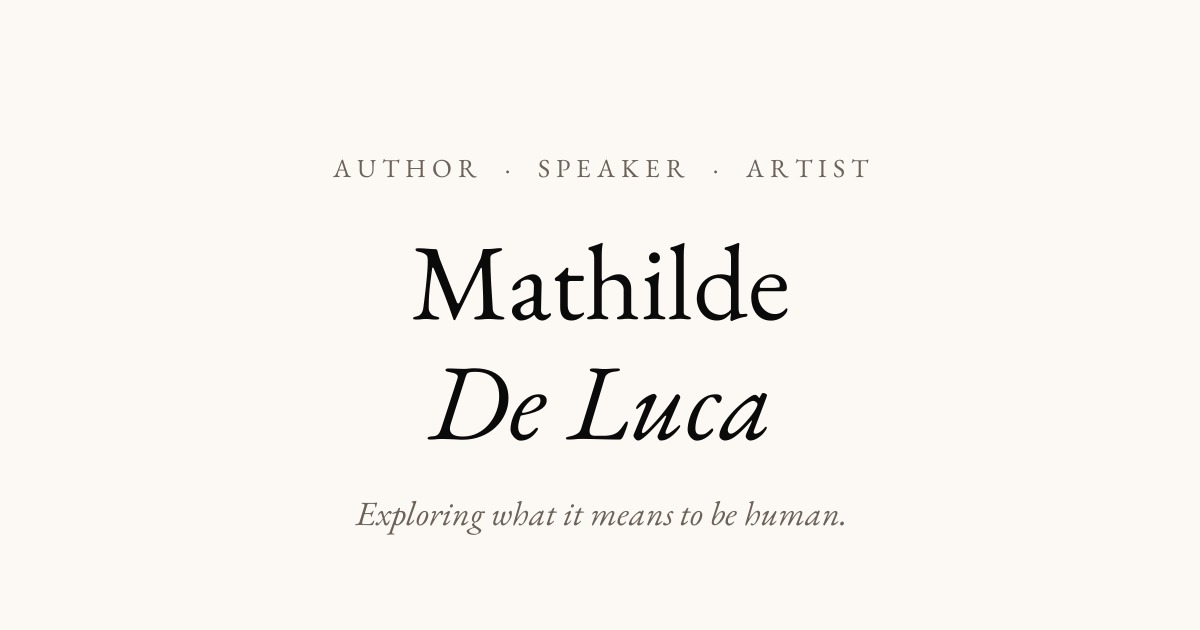
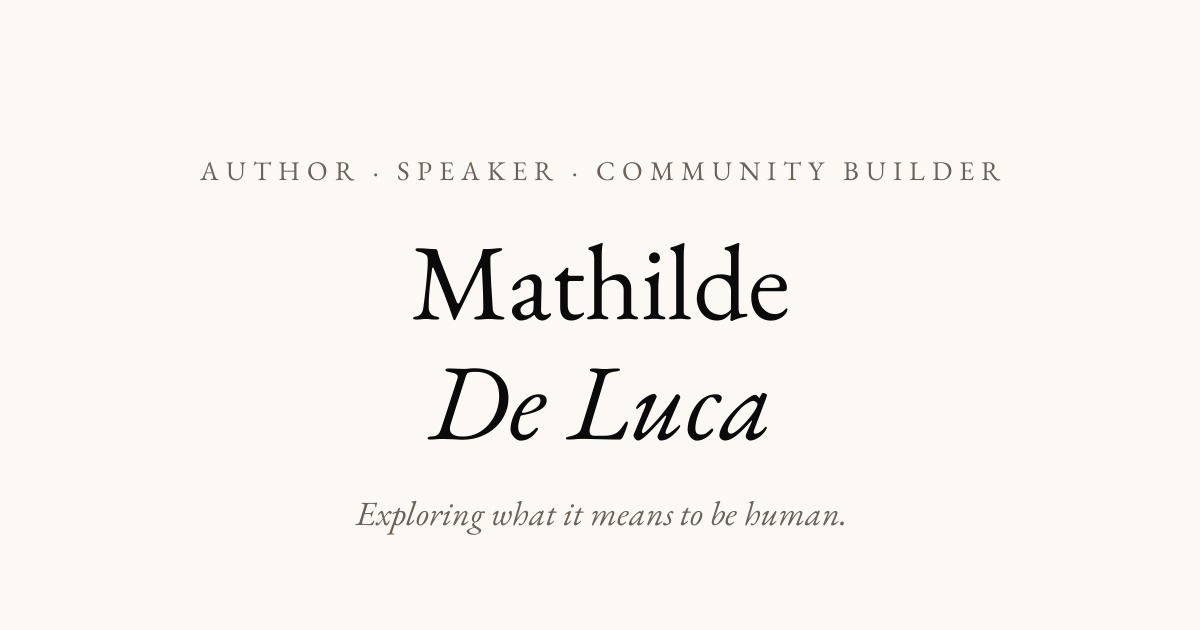
SEO : canonical accueil, twitter:image et robots sur toutes les pages, descriptions raccourcies, image de partage accueil avec Community Builder

Changed region(s): [[0.185, 0.2413, 0.5858, 0.3016], [0.6167, 0.2413, 0.7708, 0.3016], [0.7708, 0.2413, 0.8325, 0.3016]]

diff --git a/index.html b/index.html
@@ -4,13 +4,14 @@
 <meta charset="utf-8">
 <meta name="viewport" content="width=device-width, initial-scale=1">
 <title>Mathilde De Luca — Author, Speaker & Community Builder</title>
-<meta name="description" content="Official site of Mathilde De Luca: author of ‘self as a universe’, host of the Inner Exploration podcast, and community builder in Amsterdam, founder of Maison Amour Collective.">
+<meta name="description" content="Official site of Mathilde De Luca: author of ‘self as a universe’, podcast host and community builder in Amsterdam, founder of Maison Amour Collective.">
 <meta property="og:title" content="Mathilde De Luca — Author, Speaker & Community Builder">
-<meta property="og:description" content="Official site of Mathilde De Luca: author of ‘self as a universe’, host of the Inner Exploration podcast, and community builder in Amsterdam, founder of Maison Amour Collective.">
+<meta property="og:description" content="Official site of Mathilde De Luca: author of ‘self as a universe’, podcast host and community builder in Amsterdam, founder of Maison Amour Collective.">
 <meta property="og:type" content="website">
 <meta property="og:site_name" content="Mathilde De Luca">
 <meta property="og:locale" content="en_US">
 <meta name="twitter:card" content="summary_large_image">
+<meta name="twitter:image" content="https://mathildedeluca.com/images/og-image-mathilde-de-luca.jpg">
 <meta name="author" content="Mathilde De Luca">
 <meta name="copyright" content="© 2026 Mathilde De Luca">
 <meta name="robots" content="index, follow, max-image-preview:large">
@@ -19,7 +20,7 @@
 <link rel="icon" href="/favicon.ico" sizes="32x32">
 <link rel="icon" type="image/png" sizes="192x192" href="/favicon-192x192.png">
 <link rel="apple-touch-icon" href="/apple-touch-icon.png">
-<link rel="canonical" href="https://mathildedeluca.com/index.html">
+<link rel="canonical" href="https://mathildedeluca.com/">
 <meta property="og:url" content="https://mathildedeluca.com/">
 <meta property="og:image" content="https://mathildedeluca.com/images/og-image-mathilde-de-luca.jpg">
 <meta property="og:image:width" content="1200">

diff --git a/maisonamour.html b/maisonamour.html
@@ -4,9 +4,9 @@
 <meta charset="utf-8">
 <meta name="viewport" content="width=device-width, initial-scale=1">
 <title>Maison Amour Collective — Mathilde De Luca</title>
-<meta name="description" content="Maison Amour is a social &amp; artistic collective where presence, authenticity and connection become the new normal. Afterworks, dinners and workshops, with a stage for rising artists and DJs. Currently hosted in Amsterdam.">
+<meta name="description" content="Maison Amour is a social &amp; artistic collective: afterworks, dinners and workshops, with a stage for rising artists and DJs. Currently hosted in Amsterdam.">
 <meta property="og:title" content="Maison Amour Collective — Mathilde De Luca">
-<meta property="og:description" content="Maison Amour is a social &amp; artistic collective where presence, authenticity and connection become the new normal. Afterworks, dinners and workshops, with a stage for rising artists and DJs. Currently hosted in Amsterdam.">
+<meta property="og:description" content="Maison Amour is a social &amp; artistic collective: afterworks, dinners and workshops, with a stage for rising artists and DJs. Currently hosted in Amsterdam.">
 <meta property="og:type" content="website">
 <meta property="og:site_name" content="Mathilde De Luca">
 <meta property="og:locale" content="en_US">

diff --git a/definitions.html b/definitions.html
@@ -11,6 +11,8 @@
 <meta property="og:site_name" content="Mathilde De Luca">
 <meta property="og:locale" content="en_US">
 <meta name="twitter:card" content="summary_large_image">
+<meta name="twitter:image" content="https://mathildedeluca.com/images/og-image-mathilde-de-luca.jpg">
+<meta name="robots" content="index, follow, max-image-preview:large">
 <meta name="author" content="Mathilde De Luca">
 <meta name="copyright" content="© 2026 Mathilde De Luca">
 <meta name="theme-color" content="#FCF8F4">

diff --git a/fragments.html b/fragments.html
@@ -11,6 +11,8 @@
 <meta property="og:site_name" content="Mathilde De Luca">
 <meta property="og:locale" content="en_US">
 <meta name="twitter:card" content="summary_large_image">
+<meta name="twitter:image" content="https://mathildedeluca.com/images/og-image-mathilde-de-luca.jpg">
+<meta name="robots" content="index, follow, max-image-preview:large">
 <meta name="author" content="Mathilde De Luca">
 <meta name="copyright" content="© 2026 Mathilde De Luca">
 <meta name="theme-color" content="#FCF8F4">

diff --git a/self-as-a-universe.html b/self-as-a-universe.html
@@ -11,6 +11,8 @@
 <meta property="og:site_name" content="Mathilde De Luca">
 <meta property="og:locale" content="en_US">
 <meta name="twitter:card" content="summary_large_image">
+<meta name="twitter:image" content="https://mathildedeluca.com/images/og-image-mathilde-de-luca.jpg">
+<meta name="robots" content="index, follow, max-image-preview:large">
 <meta name="author" content="Mathilde De Luca">
 <meta name="copyright" content="© 2026 Mathilde De Luca">
 <meta name="theme-color" content="#FCF8F4">

diff --git a/essays.html b/essays.html
@@ -11,6 +11,7 @@
 <meta property="og:site_name" content="Mathilde De Luca">
 <meta property="og:locale" content="en_US">
 <meta name="twitter:card" content="summary_large_image">
+<meta name="twitter:image" content="https://mathildedeluca.com/images/og-image-mathilde-de-luca.jpg">
 <meta name="author" content="Mathilde De Luca">
 <meta name="copyright" content="© 2026 Mathilde De Luca">
 <meta name="robots" content="index, follow, max-image-preview:large">

diff --git a/inner-exploration-podcast.html b/inner-exploration-podcast.html
@@ -11,6 +11,7 @@
 <meta property="og:site_name" content="Mathilde De Luca">
 <meta property="og:locale" content="en_US">
 <meta name="twitter:card" content="summary_large_image">
+<meta name="twitter:image" content="https://mathildedeluca.com/images/og-image-mathilde-de-luca.jpg">
 <meta name="author" content="Mathilde De Luca">
 <meta name="copyright" content="© 2026 Mathilde De Luca">
 <meta name="robots" content="index, follow, max-image-preview:large">
